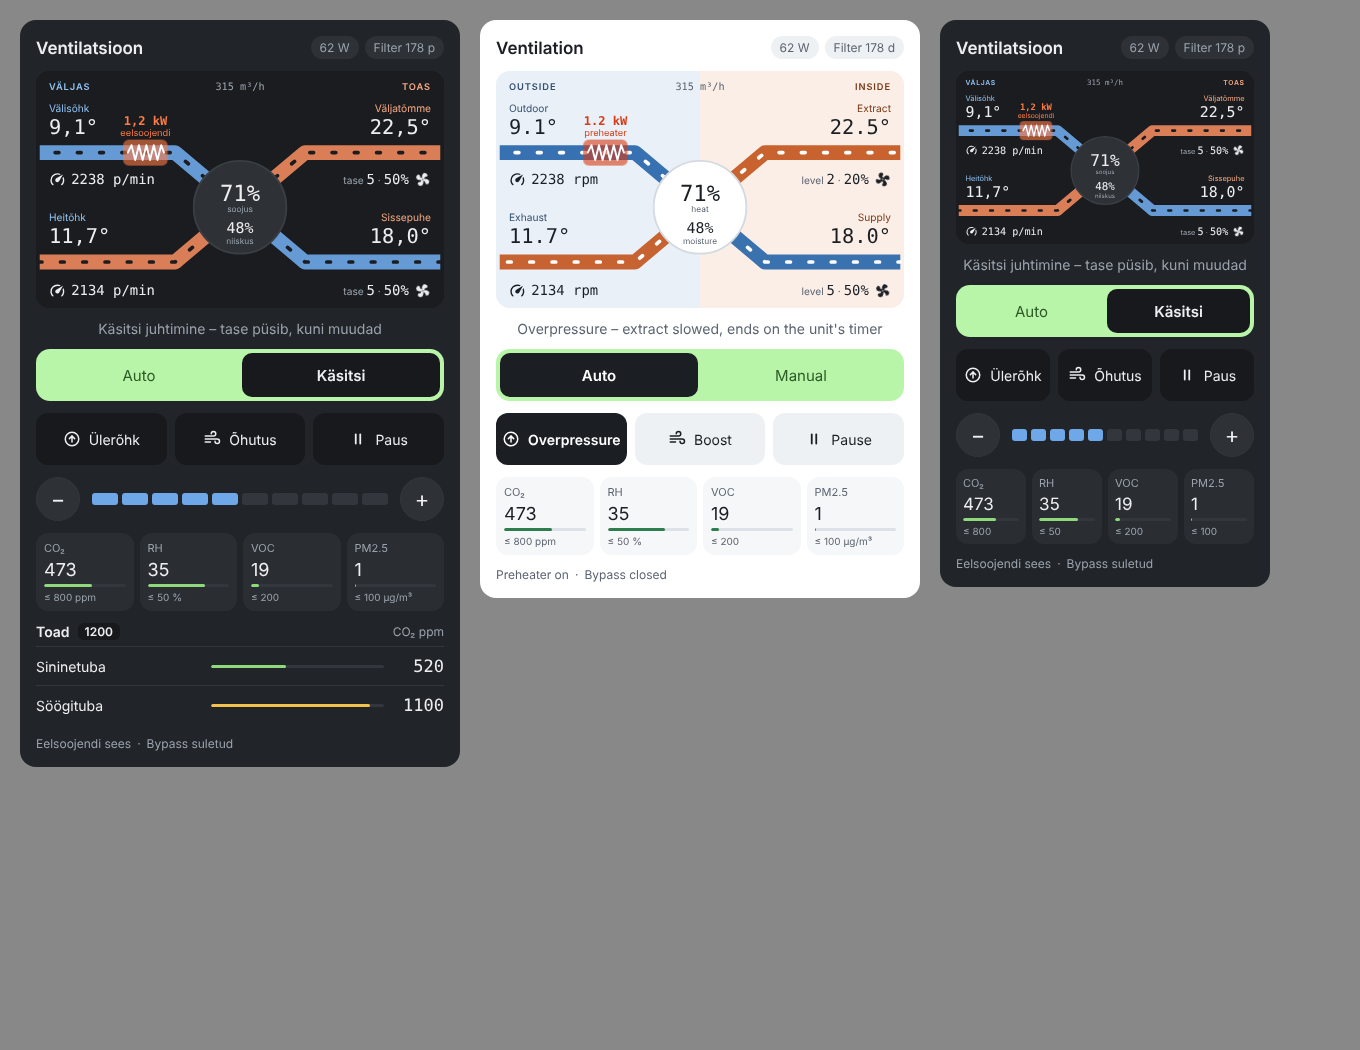
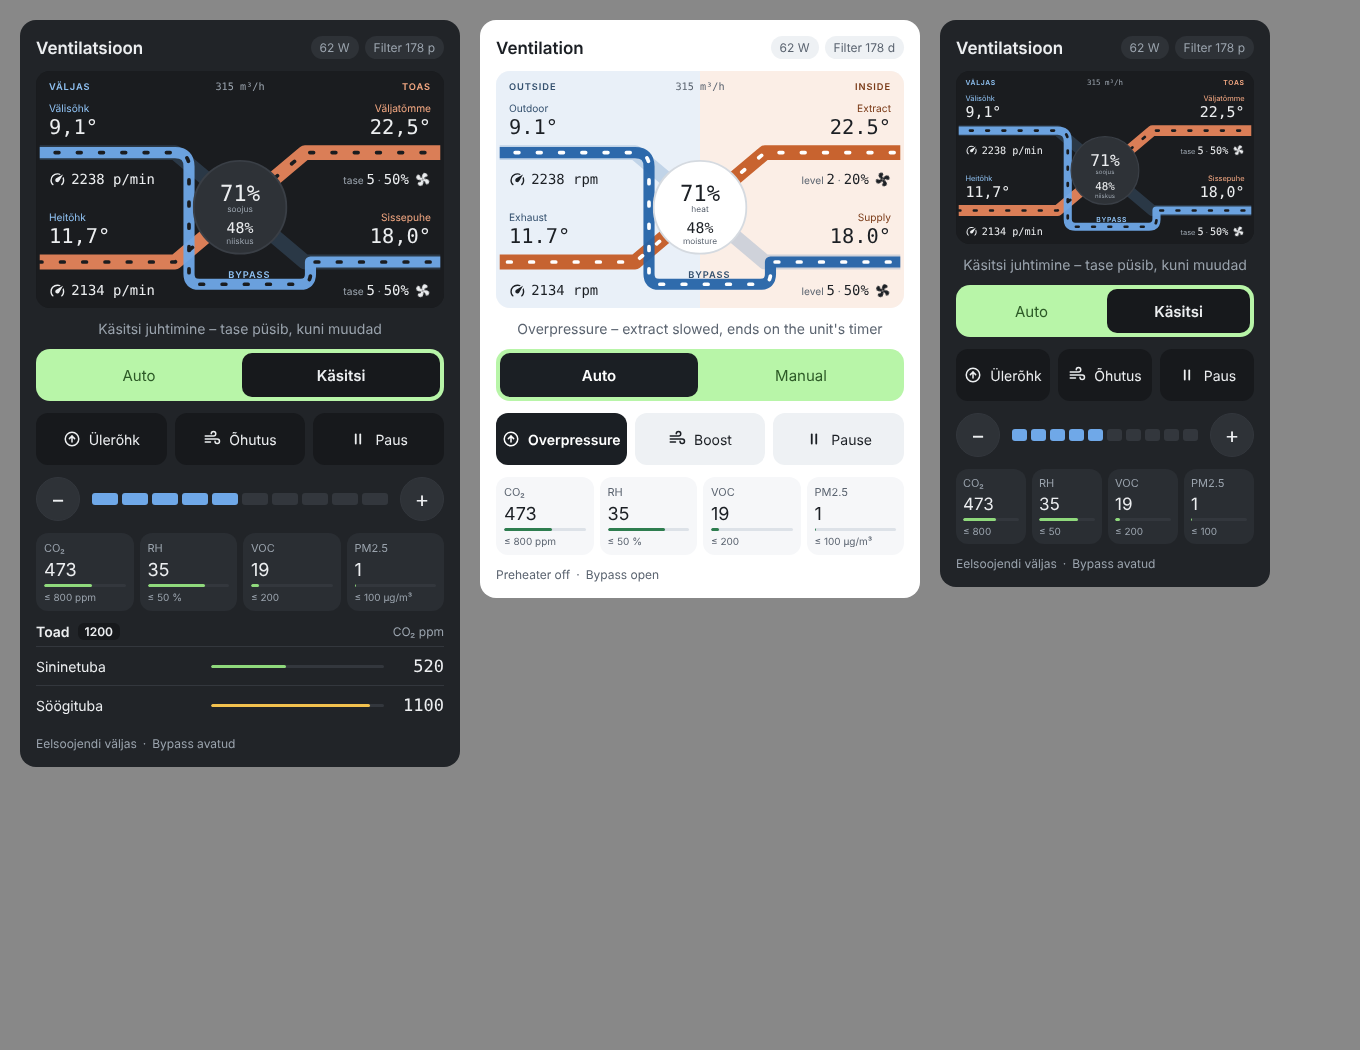
v0.8.0: show open summer bypass on the schematic
When the bypass entity is on, supply air is drawn along a separate BYPASS
duct around the heat exchanger and the exchanger path is faded.

Claude-Session: https://claude.ai/code/session_01DAmWjDz6KcV5AYitaXgLgo

diff --git a/airobot-vent-card.js b/airobot-vent-card.js
@@ -4,7 +4,7 @@
  * Languages: Estonian, English (follows HA language, or `language: et|en`).
  * MIT License
  */
-const CARD_VERSION = "0.7.0";
+const CARD_VERSION = "0.8.0";
 
 const DEFAULTS = {
   theme: "auto", // auto | light | dark
@@ -90,7 +90,7 @@ const I18N = {
     info_ok: "Õhk on puhas – Airobot hoiab madalat taset",
     filter_replace: "Filter: vaheta!",
     filter_days: (d) => `Filter ${d} p`,
-    preheater_on: "Eelsoojendi sees", preheater_short: "eelsoojendi", preheater_off: "Eelsoojendi väljas",
+    preheater_on: "Eelsoojendi sees", preheater_short: "eelsoojendi", bypass_short: "bypass", preheater_off: "Eelsoojendi väljas",
     bypass_on: "Bypass avatud", bypass_off: "Bypass suletud",
     outside: "VÄLJAS", inside: "TOAS",
     outdoor: "Välisõhk", exhaust: "Heitõhk", extract: "Väljatõmme", supply: "Sissepuhe",
@@ -136,7 +136,7 @@ const I18N = {
     info_ok: "Air is clean – Airobot keeps a low level",
     filter_replace: "Filter: replace!",
     filter_days: (d) => `Filter ${d} d`,
-    preheater_on: "Preheater on", preheater_short: "preheater", preheater_off: "Preheater off",
+    preheater_on: "Preheater on", preheater_short: "preheater", bypass_short: "bypass", preheater_off: "Preheater off",
     bypass_on: "Bypass open", bypass_off: "Bypass closed",
     outside: "OUTSIDE", inside: "INSIDE",
     outdoor: "Outdoor", exhaust: "Exhaust", extract: "Extract", supply: "Supply",
@@ -309,6 +309,9 @@ class AirobotVentCard extends HTMLElement {
         ${pw ? `<text class="num" x="118" y="58" font-size="13" font-weight="600" fill="${p.heat}" text-anchor="middle">${esc(pw)}</text>` : ""}
       </g>`;
     };
+    const bypassOn = this._on("bypass");
+    const BYPASS = "M4 88 H150 Q165 88 165 103 V219 Q165 230 176 230 H285 Q296 230 296 219 V206 H436";
+    const SUPPLY = "M4 88 H150 L290 206 H436";
     const pctTxt = (lvl, key, x, y) => {
       if (lvl === null || lvl === undefined) return "";
       const spin = lvl > 0 ? `animation-duration:${(4 / lvl).toFixed(2)}s` : "animation-play-state:paused";
@@ -436,9 +439,12 @@ ha-card{container-type:inline-size}
       <text x="426" y="20" font-size="10" font-weight="600" letter-spacing="1" fill="${p.warmText}" text-anchor="end">${this._t("inside")}</text>
       ${airflow !== null && s.powerOn ? `<text class="num" x="220" y="20" font-size="11" fill="${p.muted}" text-anchor="middle" data-more="${esc(this._id("airflow"))}" style="cursor:pointer">${esc(this._fmt(airflow, 0))} m³/h</text>` : ""}
 
-      <path d="M4 88 H150 L290 206 H436" stroke="${p.cold}" stroke-width="16" stroke-linejoin="round" fill="none" opacity=".9"/>
+      <path d="${SUPPLY}" stroke="${p.cold}" stroke-width="16" stroke-linejoin="round" fill="none" opacity="${bypassOn ? ".2" : ".9"}"/>
       <path d="M436 88 H290 L150 206 H4" stroke="${p.warm}" stroke-width="16" stroke-linejoin="round" fill="none" opacity=".9"/>
-      <path class="flow" d="M4 88 H150 L290 206 H436" stroke="${p.flowDash}" stroke-width="4" stroke-linecap="round" stroke-linejoin="round" fill="none" style="${flow(s.sup)}"/>
+      ${bypassOn ? `<g data-more="${esc(this._id("bypass"))}" style="cursor:pointer">
+        <path d="${BYPASS}" stroke="${p.cold}" stroke-width="12" stroke-linejoin="round" fill="none" opacity=".95"/>
+        <text x="230" y="223" font-size="10" font-weight="600" letter-spacing="1" fill="${p.coldText}" text-anchor="middle">${this._t("bypass_short").toUpperCase()}</text></g>` : ""}
+      <path class="flow" d="${bypassOn ? BYPASS : SUPPLY}" stroke="${p.flowDash}" stroke-width="4" stroke-linecap="round" stroke-linejoin="round" fill="none" style="${flow(s.sup)}"/>
       <path class="flow" d="M436 88 H290 L150 206 H4" stroke="${p.flowDash}" stroke-width="4" stroke-linecap="round" stroke-linejoin="round" fill="none" style="${flow(s.ex)}"/>
 
       ${tempTxt("outdoor_temp", "outdoor", 14, 68, "start", p.coldText)}

diff --git a/README.md b/README.md
@@ -11,6 +11,7 @@ A Home Assistant Lovelace card for Airobot heat recovery ventilation units (L, L
 - **Animated schematic**: outdoor, supply, extract and exhaust air. Air moves through the ducts at the speed of each fan, so the supply and extract streams move independently. In overpressure mode the extract stream slows down, and when paused the movement stops.
 - **Layout like a classic ERV card**: a temperature above each duct; under the outdoor-side ducts the fan speed (rpm, or m³/h if per-stream airflow is configured), under the room-side ducts the fan level in % with a fan icon that spins at fan speed.
 - **Preheater**: when the electric preheater is on, a glowing heating coil appears on the outdoor-air duct together with its power (W / kW).
+- **Summer bypass**: when the bypass is open, the outdoor air is drawn around the heat exchanger along a separate BYPASS duct and the exchanger path fades out.
 - **Centre**: heat recovery efficiency and moisture recovery. Total airflow is shown at the top.
 - **Mode**: Auto or Manual. The level stepper (+/−) is shown only in Manual mode.
 - **Actions**: Overpressure (fireplace), Boost and Pause.

diff --git a/README.et.md b/README.et.md
@@ -11,6 +11,7 @@ Home Assistanti Lovelace kaart Airoboti soojustagastusega ventilatsiooniseadmete
 - **Skeem:** välisõhk, sissepuhe, väljatõmme ja heitõhk. Kanalites liigub õhk ventilaatori taseme kiirusega, kumbki vool oma kiirusega. Ülerõhu ajal on väljatõmme aeglasem ja pausi ajal liikumine peatub.
 - **Paigutus nagu klassikalisel ERV-kaardil:** iga kanali kohal on temperatuur. Välispoolsete kanalite all on ventilaatori pöörded (p/min, või m³/h, kui voolu õhuhulk on seadistatud). Toapoolsete kanalite all on tase protsentides ja ventilaatori ikoon, mis pöörleb ventilaatori kiirusega.
 - **Eelsoojendi:** kui elektriline eelsoojendi töötab, ilmub välisõhu kanalile helendav küttespiraal koos võimsusega (W / kW).
+- **Suvine bypass:** kui bypass on avatud, liigub välisõhk mööda eraldi BYPASS-kanalit soojusvahetist mööda ja soojusvaheti tee jääb tuhmiks.
 - **Keskel:** soojustagastuse kasutegur ja niiskustagastus. Kogu õhuhulk on üleval keskel.
 - **Režiim:** Auto ja Käsitsi. Taseme valik (+/−) on nähtaval ainult käsitsi režiimis.
 - **Toimingud:** Ülerõhk (kamin), Õhutus (boost) ja Paus.
